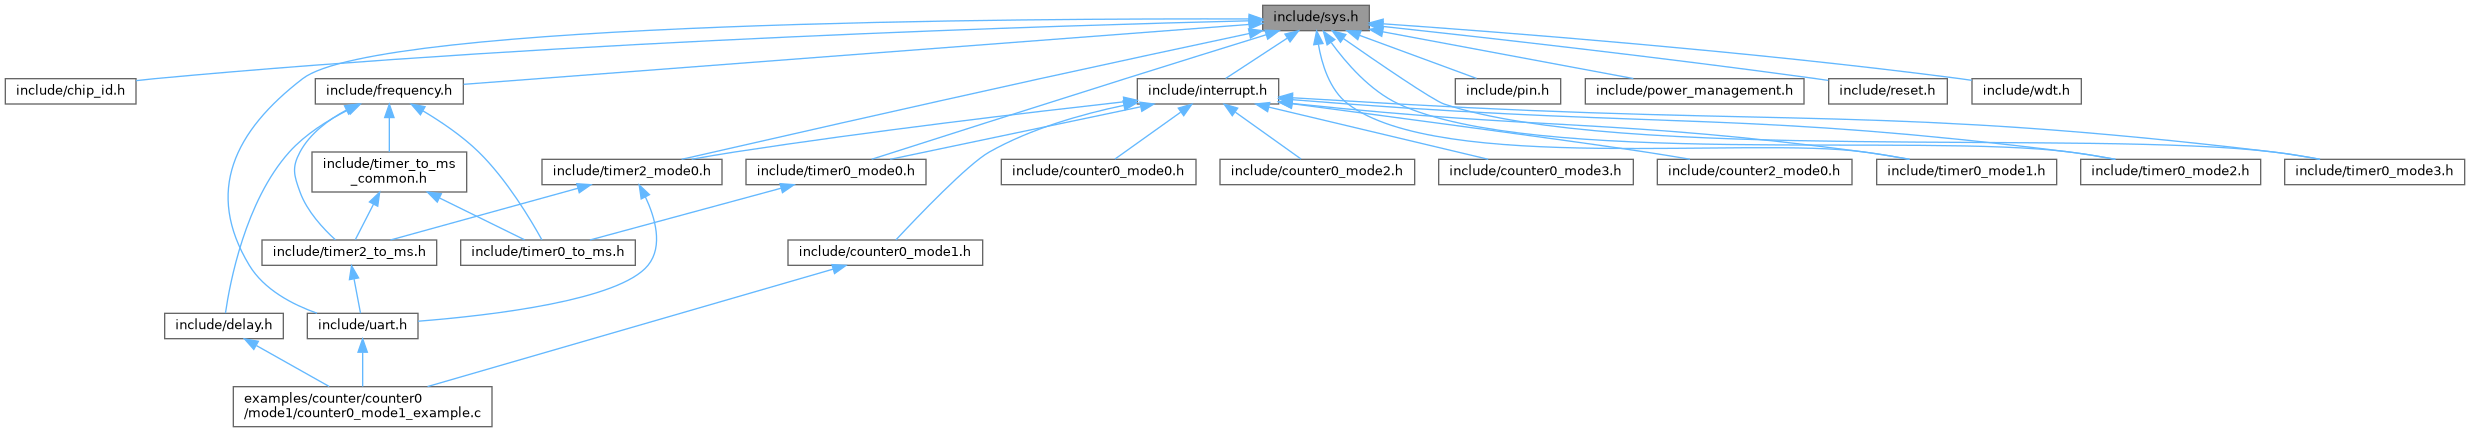
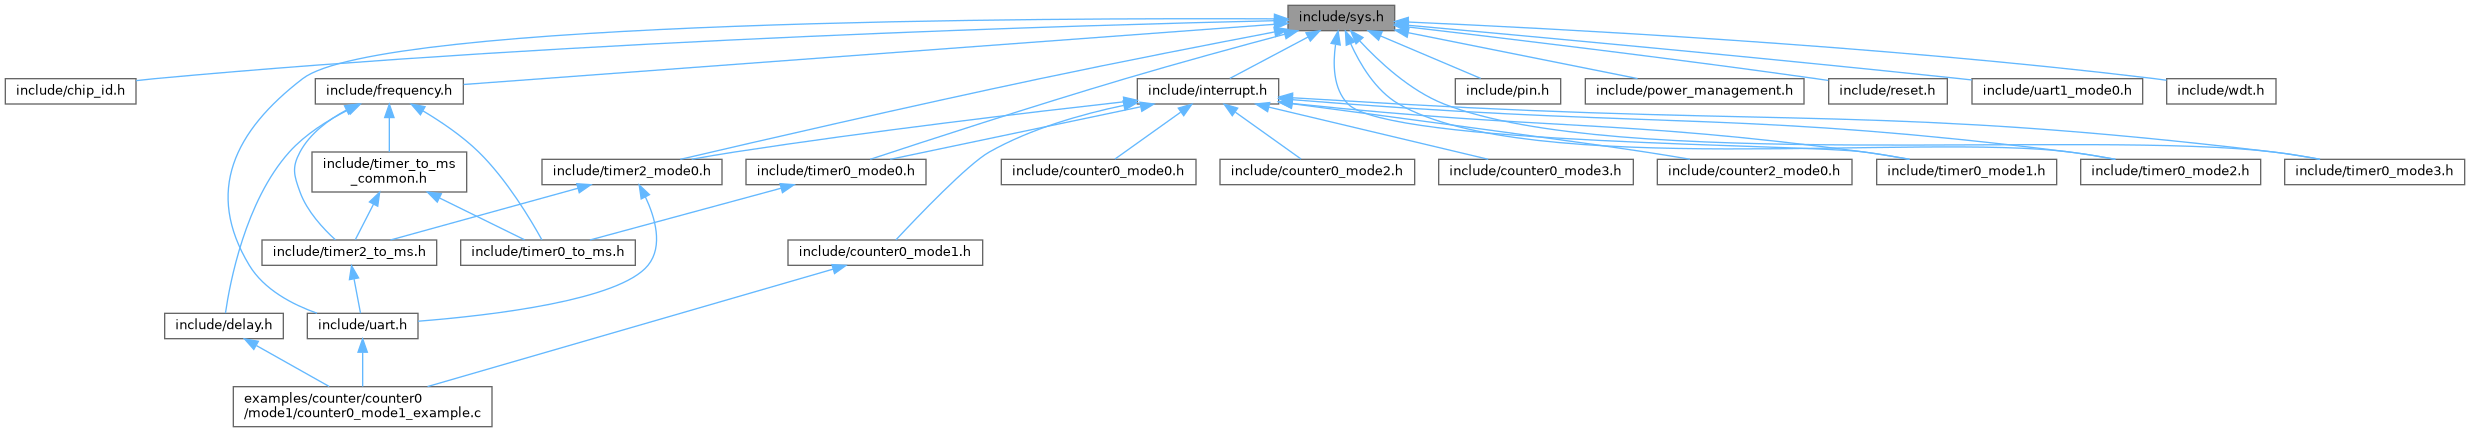
UART1 mode0 stub

diff --git a/docs/html/search/all_12.js b/docs/html/search/all_12.js
@@ -6,8 +6,10 @@ var searchData=
   ['uart1_5finit_3',['uart1_init',['../group__uart.html#gaaf582a05f613b72c7255c5cd838879fd',1,'uart.h']]],
   ['uart1_5fmode0_2eh_4',['uart1_mode0.h',['../uart1__mode0_8h.html',1,'']]],
   ['uart1_5fmode0_5finit_5',['uart1_mode0_init',['../group__uart1__mode0.html#gaf5419d2ce198432d12affc50bb9f567c',1,'uart1_mode0_init():&#160;uart1_mode0.c'],['../group__uart1__mode0.html#gaf5419d2ce198432d12affc50bb9f567c',1,'uart1_mode0_init():&#160;uart1_mode0.c']]],
-  ['uart1_5freceive_5fbyte_6',['uart1_receive_byte',['../group__uart.html#ga5f66ea2c05ce23684284f338d9067179',1,'uart1_receive_byte():&#160;uart.c'],['../group__uart.html#ga5f66ea2c05ce23684284f338d9067179',1,'uart1_receive_byte():&#160;uart.c'],['../group__uart.html#ga5f66ea2c05ce23684284f338d9067179',1,'uart1_receive_byte():&#160;uart.c'],['../group__uart.html#ga5f66ea2c05ce23684284f338d9067179',1,'uart1_receive_byte():&#160;uart.c'],['../group__uart.html#ga5f66ea2c05ce23684284f338d9067179',1,'uart1_receive_byte():&#160;uart.c'],['../group__uart.html#ga5f66ea2c05ce23684284f338d9067179',1,'uart1_receive_byte():&#160;uart.c'],['../group__uart.html#ga5f66ea2c05ce23684284f338d9067179',1,'uart1_receive_byte():&#160;uart.c'],['../group__uart.html#ga5f66ea2c05ce23684284f338d9067179',1,'uart1_receive_byte():&#160;uart.c'],['../group__uart.html#ga5f66ea2c05ce23684284f338d9067179',1,'uart1_receive_byte():&#160;uart.c'],['../group__uart.html#ga5f66ea2c05ce23684284f338d9067179',1,'uart1_receive_byte():&#160;uart.c'],['../group__uart.html#ga5f66ea2c05ce23684284f338d9067179',1,'uart1_receive_byte():&#160;uart.c'],['../group__uart.html#ga5f66ea2c05ce23684284f338d9067179',1,'uart1_receive_byte():&#160;uart.c'],['../group__uart.html#ga5f66ea2c05ce23684284f338d9067179',1,'uart1_receive_byte():&#160;uart.c'],['../group__uart.html#ga5f66ea2c05ce23684284f338d9067179',1,'uart1_receive_byte():&#160;uart.c'],['../group__uart.html#ga5f66ea2c05ce23684284f338d9067179',1,'uart1_receive_byte():&#160;uart.c'],['../group__uart.html#ga5f66ea2c05ce23684284f338d9067179',1,'uart1_receive_byte():&#160;uart.c'],['../group__uart.html#ga5f66ea2c05ce23684284f338d9067179',1,'uart1_receive_byte():&#160;uart.c']]],
-  ['uart1_5fsend_5fbyte_7',['uart1_send_byte',['../group__uart.html#gaee0e2768c65fa6dfe5e87991f729c6d0',1,'uart1_send_byte(uint8_t data):&#160;uart.c'],['../group__uart.html#gaee0e2768c65fa6dfe5e87991f729c6d0',1,'uart1_send_byte(uint8_t data):&#160;uart.c'],['../group__uart.html#gaee0e2768c65fa6dfe5e87991f729c6d0',1,'uart1_send_byte(uint8_t data):&#160;uart.c'],['../group__uart.html#gaee0e2768c65fa6dfe5e87991f729c6d0',1,'uart1_send_byte(uint8_t data):&#160;uart.c'],['../group__uart.html#gaee0e2768c65fa6dfe5e87991f729c6d0',1,'uart1_send_byte(uint8_t data):&#160;uart.c'],['../group__uart.html#gaee0e2768c65fa6dfe5e87991f729c6d0',1,'uart1_send_byte(uint8_t data):&#160;uart.c'],['../group__uart.html#gaee0e2768c65fa6dfe5e87991f729c6d0',1,'uart1_send_byte(uint8_t data):&#160;uart.c'],['../group__uart.html#gaee0e2768c65fa6dfe5e87991f729c6d0',1,'uart1_send_byte(uint8_t data):&#160;uart.c'],['../group__uart.html#gaee0e2768c65fa6dfe5e87991f729c6d0',1,'uart1_send_byte(uint8_t data):&#160;uart.c'],['../group__uart.html#gaee0e2768c65fa6dfe5e87991f729c6d0',1,'uart1_send_byte(uint8_t data):&#160;uart.c'],['../group__uart.html#gaee0e2768c65fa6dfe5e87991f729c6d0',1,'uart1_send_byte(uint8_t data):&#160;uart.c'],['../group__uart.html#gaee0e2768c65fa6dfe5e87991f729c6d0',1,'uart1_send_byte(uint8_t data):&#160;uart.c'],['../group__uart.html#gaee0e2768c65fa6dfe5e87991f729c6d0',1,'uart1_send_byte(uint8_t data):&#160;uart.c'],['../group__uart.html#gaee0e2768c65fa6dfe5e87991f729c6d0',1,'uart1_send_byte(uint8_t data):&#160;uart.c'],['../group__uart.html#gaee0e2768c65fa6dfe5e87991f729c6d0',1,'uart1_send_byte(uint8_t data):&#160;uart.c'],['../group__uart.html#gaee0e2768c65fa6dfe5e87991f729c6d0',1,'uart1_send_byte(uint8_t data):&#160;uart.c'],['../group__uart.html#gaee0e2768c65fa6dfe5e87991f729c6d0',1,'uart1_send_byte(uint8_t data):&#160;uart.c']]],
-  ['use_20it_8',['How to use it',['../index.html#autotoc_md1',1,'']]],
-  ['use_20stc15_20hal_20functions_9',['Use STC15 HAL functions',['../index.html#autotoc_md4',1,'']]]
+  ['uart1_5fmode0_5freceive_5fbyte_6',['uart1_mode0_receive_byte',['../group__uart1__mode0.html#ga90ab3ce7b678adb5a2d1e71c64f240f2',1,'uart1_mode0_receive_byte(uint8_t *byte):&#160;uart1_mode0.c'],['../group__uart1__mode0.html#ga90ab3ce7b678adb5a2d1e71c64f240f2',1,'uart1_mode0_receive_byte(uint8_t *byte):&#160;uart1_mode0.c']]],
+  ['uart1_5fmode0_5fsend_5fbyte_7',['uart1_mode0_send_byte',['../group__uart1__mode0.html#ga337ab921b8215fd076d12728c7b0454b',1,'uart1_mode0_send_byte(uint8_t byte):&#160;uart1_mode0.c'],['../group__uart1__mode0.html#ga337ab921b8215fd076d12728c7b0454b',1,'uart1_mode0_send_byte(uint8_t byte):&#160;uart1_mode0.c']]],
+  ['uart1_5freceive_5fbyte_8',['uart1_receive_byte',['../group__uart.html#ga5f66ea2c05ce23684284f338d9067179',1,'uart1_receive_byte():&#160;uart.c'],['../group__uart.html#ga5f66ea2c05ce23684284f338d9067179',1,'uart1_receive_byte():&#160;uart.c'],['../group__uart.html#ga5f66ea2c05ce23684284f338d9067179',1,'uart1_receive_byte():&#160;uart.c'],['../group__uart.html#ga5f66ea2c05ce23684284f338d9067179',1,'uart1_receive_byte():&#160;uart.c'],['../group__uart.html#ga5f66ea2c05ce23684284f338d9067179',1,'uart1_receive_byte():&#160;uart.c'],['../group__uart.html#ga5f66ea2c05ce23684284f338d9067179',1,'uart1_receive_byte():&#160;uart.c'],['../group__uart.html#ga5f66ea2c05ce23684284f338d9067179',1,'uart1_receive_byte():&#160;uart.c'],['../group__uart.html#ga5f66ea2c05ce23684284f338d9067179',1,'uart1_receive_byte():&#160;uart.c'],['../group__uart.html#ga5f66ea2c05ce23684284f338d9067179',1,'uart1_receive_byte():&#160;uart.c'],['../group__uart.html#ga5f66ea2c05ce23684284f338d9067179',1,'uart1_receive_byte():&#160;uart.c'],['../group__uart.html#ga5f66ea2c05ce23684284f338d9067179',1,'uart1_receive_byte():&#160;uart.c'],['../group__uart.html#ga5f66ea2c05ce23684284f338d9067179',1,'uart1_receive_byte():&#160;uart.c'],['../group__uart.html#ga5f66ea2c05ce23684284f338d9067179',1,'uart1_receive_byte():&#160;uart.c'],['../group__uart.html#ga5f66ea2c05ce23684284f338d9067179',1,'uart1_receive_byte():&#160;uart.c'],['../group__uart.html#ga5f66ea2c05ce23684284f338d9067179',1,'uart1_receive_byte():&#160;uart.c'],['../group__uart.html#ga5f66ea2c05ce23684284f338d9067179',1,'uart1_receive_byte():&#160;uart.c'],['../group__uart.html#ga5f66ea2c05ce23684284f338d9067179',1,'uart1_receive_byte():&#160;uart.c']]],
+  ['uart1_5fsend_5fbyte_9',['uart1_send_byte',['../group__uart.html#gaee0e2768c65fa6dfe5e87991f729c6d0',1,'uart1_send_byte(uint8_t data):&#160;uart.c'],['../group__uart.html#gaee0e2768c65fa6dfe5e87991f729c6d0',1,'uart1_send_byte(uint8_t data):&#160;uart.c'],['../group__uart.html#gaee0e2768c65fa6dfe5e87991f729c6d0',1,'uart1_send_byte(uint8_t data):&#160;uart.c'],['../group__uart.html#gaee0e2768c65fa6dfe5e87991f729c6d0',1,'uart1_send_byte(uint8_t data):&#160;uart.c'],['../group__uart.html#gaee0e2768c65fa6dfe5e87991f729c6d0',1,'uart1_send_byte(uint8_t data):&#160;uart.c'],['../group__uart.html#gaee0e2768c65fa6dfe5e87991f729c6d0',1,'uart1_send_byte(uint8_t data):&#160;uart.c'],['../group__uart.html#gaee0e2768c65fa6dfe5e87991f729c6d0',1,'uart1_send_byte(uint8_t data):&#160;uart.c'],['../group__uart.html#gaee0e2768c65fa6dfe5e87991f729c6d0',1,'uart1_send_byte(uint8_t data):&#160;uart.c'],['../group__uart.html#gaee0e2768c65fa6dfe5e87991f729c6d0',1,'uart1_send_byte(uint8_t data):&#160;uart.c'],['../group__uart.html#gaee0e2768c65fa6dfe5e87991f729c6d0',1,'uart1_send_byte(uint8_t data):&#160;uart.c'],['../group__uart.html#gaee0e2768c65fa6dfe5e87991f729c6d0',1,'uart1_send_byte(uint8_t data):&#160;uart.c'],['../group__uart.html#gaee0e2768c65fa6dfe5e87991f729c6d0',1,'uart1_send_byte(uint8_t data):&#160;uart.c'],['../group__uart.html#gaee0e2768c65fa6dfe5e87991f729c6d0',1,'uart1_send_byte(uint8_t data):&#160;uart.c'],['../group__uart.html#gaee0e2768c65fa6dfe5e87991f729c6d0',1,'uart1_send_byte(uint8_t data):&#160;uart.c'],['../group__uart.html#gaee0e2768c65fa6dfe5e87991f729c6d0',1,'uart1_send_byte(uint8_t data):&#160;uart.c'],['../group__uart.html#gaee0e2768c65fa6dfe5e87991f729c6d0',1,'uart1_send_byte(uint8_t data):&#160;uart.c'],['../group__uart.html#gaee0e2768c65fa6dfe5e87991f729c6d0',1,'uart1_send_byte(uint8_t data):&#160;uart.c']]],
+  ['use_20it_10',['How to use it',['../index.html#autotoc_md1',1,'']]],
+  ['use_20stc15_20hal_20functions_11',['Use STC15 HAL functions',['../index.html#autotoc_md4',1,'']]]
 ];

diff --git a/docs/html/search/functions_5.js b/docs/html/search/functions_5.js
@@ -1,6 +1,8 @@
 var searchData=
 [
   ['uart1_5fmode0_5finit_0',['uart1_mode0_init',['../group__uart1__mode0.html#gaf5419d2ce198432d12affc50bb9f567c',1,'uart1_mode0_init():&#160;uart1_mode0.c'],['../group__uart1__mode0.html#gaf5419d2ce198432d12affc50bb9f567c',1,'uart1_mode0_init():&#160;uart1_mode0.c']]],
-  ['uart1_5freceive_5fbyte_1',['uart1_receive_byte',['../group__uart.html#ga5f66ea2c05ce23684284f338d9067179',1,'uart1_receive_byte():&#160;uart.c'],['../group__uart.html#ga5f66ea2c05ce23684284f338d9067179',1,'uart1_receive_byte():&#160;uart.c'],['../group__uart.html#ga5f66ea2c05ce23684284f338d9067179',1,'uart1_receive_byte():&#160;uart.c'],['../group__uart.html#ga5f66ea2c05ce23684284f338d9067179',1,'uart1_receive_byte():&#160;uart.c'],['../group__uart.html#ga5f66ea2c05ce23684284f338d9067179',1,'uart1_receive_byte():&#160;uart.c'],['../group__uart.html#ga5f66ea2c05ce23684284f338d9067179',1,'uart1_receive_byte():&#160;uart.c'],['../group__uart.html#ga5f66ea2c05ce23684284f338d9067179',1,'uart1_receive_byte():&#160;uart.c'],['../group__uart.html#ga5f66ea2c05ce23684284f338d9067179',1,'uart1_receive_byte():&#160;uart.c'],['../group__uart.html#ga5f66ea2c05ce23684284f338d9067179',1,'uart1_receive_byte():&#160;uart.c'],['../group__uart.html#ga5f66ea2c05ce23684284f338d9067179',1,'uart1_receive_byte():&#160;uart.c'],['../group__uart.html#ga5f66ea2c05ce23684284f338d9067179',1,'uart1_receive_byte():&#160;uart.c'],['../group__uart.html#ga5f66ea2c05ce23684284f338d9067179',1,'uart1_receive_byte():&#160;uart.c'],['../group__uart.html#ga5f66ea2c05ce23684284f338d9067179',1,'uart1_receive_byte():&#160;uart.c'],['../group__uart.html#ga5f66ea2c05ce23684284f338d9067179',1,'uart1_receive_byte():&#160;uart.c'],['../group__uart.html#ga5f66ea2c05ce23684284f338d9067179',1,'uart1_receive_byte():&#160;uart.c'],['../group__uart.html#ga5f66ea2c05ce23684284f338d9067179',1,'uart1_receive_byte():&#160;uart.c'],['../group__uart.html#ga5f66ea2c05ce23684284f338d9067179',1,'uart1_receive_byte():&#160;uart.c']]],
-  ['uart1_5fsend_5fbyte_2',['uart1_send_byte',['../group__uart.html#gaee0e2768c65fa6dfe5e87991f729c6d0',1,'uart1_send_byte(uint8_t data):&#160;uart.c'],['../group__uart.html#gaee0e2768c65fa6dfe5e87991f729c6d0',1,'uart1_send_byte(uint8_t data):&#160;uart.c'],['../group__uart.html#gaee0e2768c65fa6dfe5e87991f729c6d0',1,'uart1_send_byte(uint8_t data):&#160;uart.c'],['../group__uart.html#gaee0e2768c65fa6dfe5e87991f729c6d0',1,'uart1_send_byte(uint8_t data):&#160;uart.c'],['../group__uart.html#gaee0e2768c65fa6dfe5e87991f729c6d0',1,'uart1_send_byte(uint8_t data):&#160;uart.c'],['../group__uart.html#gaee0e2768c65fa6dfe5e87991f729c6d0',1,'uart1_send_byte(uint8_t data):&#160;uart.c'],['../group__uart.html#gaee0e2768c65fa6dfe5e87991f729c6d0',1,'uart1_send_byte(uint8_t data):&#160;uart.c'],['../group__uart.html#gaee0e2768c65fa6dfe5e87991f729c6d0',1,'uart1_send_byte(uint8_t data):&#160;uart.c'],['../group__uart.html#gaee0e2768c65fa6dfe5e87991f729c6d0',1,'uart1_send_byte(uint8_t data):&#160;uart.c'],['../group__uart.html#gaee0e2768c65fa6dfe5e87991f729c6d0',1,'uart1_send_byte(uint8_t data):&#160;uart.c'],['../group__uart.html#gaee0e2768c65fa6dfe5e87991f729c6d0',1,'uart1_send_byte(uint8_t data):&#160;uart.c'],['../group__uart.html#gaee0e2768c65fa6dfe5e87991f729c6d0',1,'uart1_send_byte(uint8_t data):&#160;uart.c'],['../group__uart.html#gaee0e2768c65fa6dfe5e87991f729c6d0',1,'uart1_send_byte(uint8_t data):&#160;uart.c'],['../group__uart.html#gaee0e2768c65fa6dfe5e87991f729c6d0',1,'uart1_send_byte(uint8_t data):&#160;uart.c'],['../group__uart.html#gaee0e2768c65fa6dfe5e87991f729c6d0',1,'uart1_send_byte(uint8_t data):&#160;uart.c'],['../group__uart.html#gaee0e2768c65fa6dfe5e87991f729c6d0',1,'uart1_send_byte(uint8_t data):&#160;uart.c'],['../group__uart.html#gaee0e2768c65fa6dfe5e87991f729c6d0',1,'uart1_send_byte(uint8_t data):&#160;uart.c']]]
+  ['uart1_5fmode0_5freceive_5fbyte_1',['uart1_mode0_receive_byte',['../group__uart1__mode0.html#ga90ab3ce7b678adb5a2d1e71c64f240f2',1,'uart1_mode0_receive_byte(uint8_t *byte):&#160;uart1_mode0.c'],['../group__uart1__mode0.html#ga90ab3ce7b678adb5a2d1e71c64f240f2',1,'uart1_mode0_receive_byte(uint8_t *byte):&#160;uart1_mode0.c']]],
+  ['uart1_5fmode0_5fsend_5fbyte_2',['uart1_mode0_send_byte',['../group__uart1__mode0.html#ga337ab921b8215fd076d12728c7b0454b',1,'uart1_mode0_send_byte(uint8_t byte):&#160;uart1_mode0.c'],['../group__uart1__mode0.html#ga337ab921b8215fd076d12728c7b0454b',1,'uart1_mode0_send_byte(uint8_t byte):&#160;uart1_mode0.c']]],
+  ['uart1_5freceive_5fbyte_3',['uart1_receive_byte',['../group__uart.html#ga5f66ea2c05ce23684284f338d9067179',1,'uart1_receive_byte():&#160;uart.c'],['../group__uart.html#ga5f66ea2c05ce23684284f338d9067179',1,'uart1_receive_byte():&#160;uart.c'],['../group__uart.html#ga5f66ea2c05ce23684284f338d9067179',1,'uart1_receive_byte():&#160;uart.c'],['../group__uart.html#ga5f66ea2c05ce23684284f338d9067179',1,'uart1_receive_byte():&#160;uart.c'],['../group__uart.html#ga5f66ea2c05ce23684284f338d9067179',1,'uart1_receive_byte():&#160;uart.c'],['../group__uart.html#ga5f66ea2c05ce23684284f338d9067179',1,'uart1_receive_byte():&#160;uart.c'],['../group__uart.html#ga5f66ea2c05ce23684284f338d9067179',1,'uart1_receive_byte():&#160;uart.c'],['../group__uart.html#ga5f66ea2c05ce23684284f338d9067179',1,'uart1_receive_byte():&#160;uart.c'],['../group__uart.html#ga5f66ea2c05ce23684284f338d9067179',1,'uart1_receive_byte():&#160;uart.c'],['../group__uart.html#ga5f66ea2c05ce23684284f338d9067179',1,'uart1_receive_byte():&#160;uart.c'],['../group__uart.html#ga5f66ea2c05ce23684284f338d9067179',1,'uart1_receive_byte():&#160;uart.c'],['../group__uart.html#ga5f66ea2c05ce23684284f338d9067179',1,'uart1_receive_byte():&#160;uart.c'],['../group__uart.html#ga5f66ea2c05ce23684284f338d9067179',1,'uart1_receive_byte():&#160;uart.c'],['../group__uart.html#ga5f66ea2c05ce23684284f338d9067179',1,'uart1_receive_byte():&#160;uart.c'],['../group__uart.html#ga5f66ea2c05ce23684284f338d9067179',1,'uart1_receive_byte():&#160;uart.c'],['../group__uart.html#ga5f66ea2c05ce23684284f338d9067179',1,'uart1_receive_byte():&#160;uart.c'],['../group__uart.html#ga5f66ea2c05ce23684284f338d9067179',1,'uart1_receive_byte():&#160;uart.c']]],
+  ['uart1_5fsend_5fbyte_4',['uart1_send_byte',['../group__uart.html#gaee0e2768c65fa6dfe5e87991f729c6d0',1,'uart1_send_byte(uint8_t data):&#160;uart.c'],['../group__uart.html#gaee0e2768c65fa6dfe5e87991f729c6d0',1,'uart1_send_byte(uint8_t data):&#160;uart.c'],['../group__uart.html#gaee0e2768c65fa6dfe5e87991f729c6d0',1,'uart1_send_byte(uint8_t data):&#160;uart.c'],['../group__uart.html#gaee0e2768c65fa6dfe5e87991f729c6d0',1,'uart1_send_byte(uint8_t data):&#160;uart.c'],['../group__uart.html#gaee0e2768c65fa6dfe5e87991f729c6d0',1,'uart1_send_byte(uint8_t data):&#160;uart.c'],['../group__uart.html#gaee0e2768c65fa6dfe5e87991f729c6d0',1,'uart1_send_byte(uint8_t data):&#160;uart.c'],['../group__uart.html#gaee0e2768c65fa6dfe5e87991f729c6d0',1,'uart1_send_byte(uint8_t data):&#160;uart.c'],['../group__uart.html#gaee0e2768c65fa6dfe5e87991f729c6d0',1,'uart1_send_byte(uint8_t data):&#160;uart.c'],['../group__uart.html#gaee0e2768c65fa6dfe5e87991f729c6d0',1,'uart1_send_byte(uint8_t data):&#160;uart.c'],['../group__uart.html#gaee0e2768c65fa6dfe5e87991f729c6d0',1,'uart1_send_byte(uint8_t data):&#160;uart.c'],['../group__uart.html#gaee0e2768c65fa6dfe5e87991f729c6d0',1,'uart1_send_byte(uint8_t data):&#160;uart.c'],['../group__uart.html#gaee0e2768c65fa6dfe5e87991f729c6d0',1,'uart1_send_byte(uint8_t data):&#160;uart.c'],['../group__uart.html#gaee0e2768c65fa6dfe5e87991f729c6d0',1,'uart1_send_byte(uint8_t data):&#160;uart.c'],['../group__uart.html#gaee0e2768c65fa6dfe5e87991f729c6d0',1,'uart1_send_byte(uint8_t data):&#160;uart.c'],['../group__uart.html#gaee0e2768c65fa6dfe5e87991f729c6d0',1,'uart1_send_byte(uint8_t data):&#160;uart.c'],['../group__uart.html#gaee0e2768c65fa6dfe5e87991f729c6d0',1,'uart1_send_byte(uint8_t data):&#160;uart.c'],['../group__uart.html#gaee0e2768c65fa6dfe5e87991f729c6d0',1,'uart1_send_byte(uint8_t data):&#160;uart.c']]]
 ];

diff --git a/docs/html/sys_8h.html b/docs/html/sys_8h.html
@@ -96,33 +96,35 @@ This graph shows which files directly or indirectly include this file:</div>
 <div class="dyncontent">
 <div class="center"><img src="sys_8h__dep__incl.png" border="0" usemap="#ainclude_2sys_8hdep" alt=""/></div>
 <map name="ainclude_2sys_8hdep" id="ainclude_2sys_8hdep">
-<area shape="rect" title=" " alt="" coords="1263,5,1369,31"/>
+<area shape="rect" title=" " alt="" coords="1288,5,1395,31"/>
 <area shape="rect" href="chip__id_8h.html" title=" " alt="" coords="5,79,136,104"/>
-<area shape="poly" title=" " alt="" coords="1249,23,791,40,476,57,155,81,136,83,136,78,154,76,475,51,790,34,1249,18"/>
+<area shape="poly" title=" " alt="" coords="1275,23,806,39,484,56,155,81,136,83,136,78,154,76,484,51,806,34,1274,18"/>
 <area shape="rect" href="frequency_8h.html" title=" " alt="" coords="315,79,463,104"/>
-<area shape="poly" title=" " alt="" coords="1249,27,464,87,463,82,1249,22"/>
+<area shape="poly" title=" " alt="" coords="1275,27,464,87,463,82,1274,22"/>
 <area shape="rect" href="uart_8h.html" title=" " alt="" coords="307,313,418,339"/>
-<area shape="poly" title=" " alt="" coords="1249,22,1021,23,724,30,579,37,452,48,357,62,324,71,304,81,261,121,246,143,236,165,231,188,232,212,238,237,252,264,265,280,281,293,318,311,316,316,278,297,261,284,247,267,233,239,227,213,226,187,231,163,242,140,257,118,301,76,322,66,355,57,452,42,578,32,723,24,1021,17,1249,16"/>
+<area shape="poly" title=" " alt="" coords="1274,22,1041,22,736,29,587,36,457,47,358,62,325,71,304,81,261,121,246,143,236,165,231,188,232,212,238,237,252,264,265,280,281,293,318,311,316,316,278,297,261,284,247,267,233,239,227,213,226,187,231,163,242,140,257,118,301,76,323,66,357,57,456,42,586,31,735,24,1041,17,1274,16"/>
 <area shape="rect" href="interrupt_8h.html" title=" " alt="" coords="1137,79,1279,104"/>
-<area shape="poly" title=" " alt="" coords="1289,40,1227,81,1224,76,1286,36"/>
+<area shape="poly" title=" " alt="" coords="1309,39,1231,81,1229,76,1307,35"/>
 <area shape="rect" href="timer0__mode0_8h.html" title=" " alt="" coords="746,159,926,185"/>
-<area shape="poly" title=" " alt="" coords="1267,37,1126,81,872,162,871,157,1125,76,1265,32"/>
+<area shape="poly" title=" " alt="" coords="1286,37,1126,81,871,162,869,157,1125,76,1284,32"/>
 <area shape="rect" href="timer0__mode1_8h.html" title=" " alt="" coords="1877,159,2057,185"/>
-<area shape="poly" title=" " alt="" coords="1321,43,1330,75,1338,90,1350,102,1369,113,1393,123,1452,136,1522,143,1598,146,1748,145,1813,146,1864,149,1910,157,1909,162,1864,155,1813,151,1748,150,1598,151,1521,148,1451,141,1391,128,1366,118,1346,106,1334,93,1325,77,1316,45"/>
+<area shape="poly" title=" " alt="" coords="1338,45,1338,75,1342,90,1350,102,1361,109,1380,115,1438,125,1600,138,1864,149,1910,157,1909,162,1864,155,1600,143,1437,130,1379,120,1359,114,1346,106,1337,92,1332,76,1333,45"/>
 <area shape="rect" href="timer0__mode2_8h.html" title=" " alt="" coords="2081,159,2261,185"/>
-<area shape="poly" title=" " alt="" coords="1333,41,1362,74,1380,89,1400,102,1461,121,1540,133,1631,139,1729,142,1921,143,2004,144,2070,149,2116,157,2115,162,2069,155,2003,150,1921,148,1729,147,1631,145,1540,138,1460,126,1398,106,1377,94,1358,78,1329,44"/>
+<area shape="poly" title=" " alt="" coords="1353,42,1371,75,1384,90,1400,102,1427,114,1459,124,1538,138,1629,144,1727,146,1920,144,2003,145,2070,149,2116,157,2115,162,2069,155,2003,150,1920,150,1727,152,1629,150,1537,143,1458,129,1425,119,1397,106,1381,94,1367,78,1348,45"/>
 <area shape="rect" href="timer0__mode3_8h.html" title=" " alt="" coords="2285,159,2465,185"/>
-<area shape="poly" title=" " alt="" coords="1345,36,1404,77,1445,102,1523,119,1622,130,1735,136,1856,139,2091,141,2192,143,2274,149,2320,157,2319,162,2273,155,2192,149,2091,146,1856,144,1735,142,1621,136,1522,125,1443,106,1401,81,1342,41"/>
+<area shape="poly" title=" " alt="" coords="1362,39,1398,73,1420,89,1445,102,1522,122,1621,134,1734,140,1854,142,2091,142,2192,144,2274,149,2320,157,2319,162,2273,155,2192,149,2091,147,1854,148,1734,146,1620,139,1521,127,1443,106,1418,94,1394,77,1358,43"/>
 <area shape="rect" href="timer2__mode0_8h.html" title=" " alt="" coords="542,159,722,185"/>
-<area shape="poly" title=" " alt="" coords="1250,36,1041,81,682,162,681,157,1039,76,1249,31"/>
+<area shape="poly" title=" " alt="" coords="1275,35,1041,81,681,162,680,157,1039,76,1274,29"/>
 <area shape="rect" href="pin_8h.html" title=" " alt="" coords="1455,79,1561,104"/>
-<area shape="poly" title=" " alt="" coords="1361,33,1478,76,1476,81,1359,38"/>
+<area shape="poly" title=" " alt="" coords="1382,34,1482,76,1480,81,1380,38"/>
 <area shape="rect" href="power__management_8h.html" title=" " alt="" coords="1585,79,1804,104"/>
-<area shape="poly" title=" " alt="" coords="1383,29,1634,76,1633,81,1382,34"/>
+<area shape="poly" title=" " alt="" coords="1409,30,1638,76,1637,81,1408,35"/>
 <area shape="rect" href="reset_8h.html" title=" " alt="" coords="1829,79,1947,104"/>
-<area shape="poly" title=" " alt="" coords="1383,24,1578,46,1816,76,1829,78,1828,83,1816,81,1577,51,1383,29"/>
-<area shape="rect" href="wdt_8h.html" title=" " alt="" coords="1972,79,2081,104"/>
-<area shape="poly" title=" " alt="" coords="1383,21,1637,41,1960,76,1972,78,1971,83,1960,81,1637,47,1383,26"/>
+<area shape="poly" title=" " alt="" coords="1409,24,1816,76,1829,78,1828,83,1816,81,1408,30"/>
+<area shape="rect" href="uart1__mode0_8h.html" title=" " alt="" coords="1972,79,2143,104"/>
+<area shape="poly" title=" " alt="" coords="1409,23,1960,76,1972,77,1972,83,1960,81,1408,28"/>
+<area shape="rect" href="wdt_8h.html" title=" " alt="" coords="2167,79,2276,104"/>
+<area shape="poly" title=" " alt="" coords="1409,19,1731,37,1942,54,2155,76,2167,78,2166,83,2154,81,1941,59,1730,43,1408,25"/>
 <area shape="rect" href="delay_8h.html" title=" " alt="" coords="165,313,283,339"/>
 <area shape="poly" title=" " alt="" coords="349,112,319,130,291,154,264,195,245,241,234,283,228,314,223,313,228,282,240,239,259,192,287,150,316,126,346,108"/>
 <area shape="rect" href="timer0__to__ms_8h.html" title=" " alt="" coords="461,240,635,265"/>

diff --git a/docs/html/group__uart1__mode0.html b/docs/html/group__uart1__mode0.html
@@ -79,6 +79,16 @@ $(function() {
 <tr class="memitem:gaf5419d2ce198432d12affc50bb9f567c" id="r_gaf5419d2ce198432d12affc50bb9f567c"><td class="memItemLeft" align="right" valign="top">void&#160;</td><td class="memItemRight" valign="bottom"><a class="el" href="group__uart1__mode0.html#gaf5419d2ce198432d12affc50bb9f567c">uart1_mode0_init</a> ()</td></tr>
 <tr class="memdesc:gaf5419d2ce198432d12affc50bb9f567c"><td class="mdescLeft">&#160;</td><td class="mdescRight">Initializes UART1 in Mode 0.  <br /></td></tr>
 <tr class="separator:gaf5419d2ce198432d12affc50bb9f567c"><td class="memSeparator" colspan="2">&#160;</td></tr>
+</table><table class="memberdecls">
+<tr class="heading"><td colspan="2"><h2 class="groupheader">send and receive</h2></td></tr>
+<tr><td class="ititle" colspan="2"><p>UART1 send and receive byte functions </p>
+</td></tr>
+<tr class="memitem:ga337ab921b8215fd076d12728c7b0454b" id="r_ga337ab921b8215fd076d12728c7b0454b"><td class="memItemLeft" align="right" valign="top">void&#160;</td><td class="memItemRight" valign="bottom"><a class="el" href="group__uart1__mode0.html#ga337ab921b8215fd076d12728c7b0454b">uart1_mode0_send_byte</a> (uint8_t byte)</td></tr>
+<tr class="memdesc:ga337ab921b8215fd076d12728c7b0454b"><td class="mdescLeft">&#160;</td><td class="mdescRight">Sends a single byte over UART1 in Mode 0.  <br /></td></tr>
+<tr class="separator:ga337ab921b8215fd076d12728c7b0454b"><td class="memSeparator" colspan="2">&#160;</td></tr>
+<tr class="memitem:ga90ab3ce7b678adb5a2d1e71c64f240f2" id="r_ga90ab3ce7b678adb5a2d1e71c64f240f2"><td class="memItemLeft" align="right" valign="top">void&#160;</td><td class="memItemRight" valign="bottom"><a class="el" href="group__uart1__mode0.html#ga90ab3ce7b678adb5a2d1e71c64f240f2">uart1_mode0_receive_byte</a> (uint8_t *byte)</td></tr>
+<tr class="memdesc:ga90ab3ce7b678adb5a2d1e71c64f240f2"><td class="mdescLeft">&#160;</td><td class="mdescRight">Receives a single byte from UART1.  <br /></td></tr>
+<tr class="separator:ga90ab3ce7b678adb5a2d1e71c64f240f2"><td class="memSeparator" colspan="2">&#160;</td></tr>
 </table>
 <a name="details" id="details"></a><h2 class="groupheader">Detailed Description</h2>
 <p>Functions and data structures for UART1 communication in Mode 0.</p>
@@ -105,6 +115,70 @@ $(function() {
 <dl class="section note"><dt>Note</dt><dd>Assumes system clock is already configured. </dd>
 <dd>
 Modifies UART1 control and status registers. </dd></dl>
+
+</div>
+</div>
+<a id="ga90ab3ce7b678adb5a2d1e71c64f240f2" name="ga90ab3ce7b678adb5a2d1e71c64f240f2"></a>
+<h2 class="memtitle"><span class="permalink"><a href="#ga90ab3ce7b678adb5a2d1e71c64f240f2">&#9670;&#160;</a></span>uart1_mode0_receive_byte()</h2>
+
+<div class="memitem">
+<div class="memproto">
+      <table class="memname">
+        <tr>
+          <td class="memname">void uart1_mode0_receive_byte </td>
+          <td>(</td>
+          <td class="paramtype">uint8_t *&#160;</td>
+          <td class="paramname"><em>byte</em></td><td>)</td>
+          <td></td>
+        </tr>
+      </table>
+</div><div class="memdoc">
+
+<p>Receives a single byte from UART1. </p>
+<p>Waits until a byte is received via UART1 and stores it in the provided memory location.</p>
+<dl class="params"><dt>Parameters</dt><dd>
+  <table class="params">
+    <tr><td class="paramdir">[out]</td><td class="paramname">byte</td><td>Pointer to a uint8_t where the received data will be stored.</td></tr>
+  </table>
+  </dd>
+</dl>
+<dl class="section note"><dt>Note</dt><dd>This function blocks until a byte is received. </dd>
+<dd>
+Requires UART1 to be initialized with uart_mode0_init() prior to use. </dd>
+<dd>
+Assumes UART1 is configured with 8 data bits, no parity, 1 stop bit. </dd></dl>
+
+</div>
+</div>
+<a id="ga337ab921b8215fd076d12728c7b0454b" name="ga337ab921b8215fd076d12728c7b0454b"></a>
+<h2 class="memtitle"><span class="permalink"><a href="#ga337ab921b8215fd076d12728c7b0454b">&#9670;&#160;</a></span>uart1_mode0_send_byte()</h2>
+
+<div class="memitem">
+<div class="memproto">
+      <table class="memname">
+        <tr>
+          <td class="memname">void uart1_mode0_send_byte </td>
+          <td>(</td>
+          <td class="paramtype">uint8_t&#160;</td>
+          <td class="paramname"><em>byte</em></td><td>)</td>
+          <td></td>
+        </tr>
+      </table>
+</div><div class="memdoc">
+
+<p>Sends a single byte over UART1 in Mode 0. </p>
+<p>Transmits the specified 8-bit data byte through UART1 configured in Mode 0. The function blocks until the byte is fully transmitted.</p>
+<dl class="params"><dt>Parameters</dt><dd>
+  <table class="params">
+    <tr><td class="paramname">byte</td><td>The 8-bit data value to be sent (0-255).</td></tr>
+  </table>
+  </dd>
+</dl>
+<dl class="section note"><dt>Note</dt><dd>Requires UART1 to be previously initialized with uart_mode0_init(). </dd>
+<dd>
+Uses polling (blocking) method for transmission. </dd>
+<dd>
+Assumes UART1 is configured with 8 data bits, no parity, 1 stop bit. </dd></dl>
 
 </div>
 </div>

diff --git a/docs/html/uart1__mode0_8h_source.html b/docs/html/uart1__mode0_8h_source.html
@@ -83,12 +83,25 @@ $(document).ready(function() { init_codefold(0); });
 <div class="contents">
 <a href="uart1__mode0_8h.html">Go to the documentation of this file.</a><div class="fragment"><div class="line"><a id="l00001" name="l00001"></a><span class="lineno">    1</span><span class="preprocessor">#ifndef STC15_UART1MODE0H</span></div>
 <div class="line"><a id="l00002" name="l00002"></a><span class="lineno">    2</span><span class="preprocessor">#define STC15_UART1MODE0H</span></div>
-<div class="line"><a id="l00018" name="l00018"></a><span class="lineno">   18</span> </div>
-<div class="line"><a id="l00029" name="l00029"></a><span class="lineno">   29</span><span class="keywordtype">void</span> <a class="code hl_function" href="group__uart1__mode0.html#gaf5419d2ce198432d12affc50bb9f567c">uart1_mode0_init</a>();</div>
-<div class="line"><a id="l00030" name="l00030"></a><span class="lineno">   30</span> </div>
-<div class="line"><a id="l00032" name="l00032"></a><span class="lineno">   32</span> </div>
-<div class="line"><a id="l00033" name="l00033"></a><span class="lineno">   33</span><span class="preprocessor">#endif</span></div>
+<div class="line"><a id="l00003" name="l00003"></a><span class="lineno">    3</span> </div>
+<div class="line"><a id="l00004" name="l00004"></a><span class="lineno">    4</span><span class="preprocessor">#include &lt;stdint.h&gt;</span></div>
+<div class="line"><a id="l00005" name="l00005"></a><span class="lineno">    5</span> </div>
+<div class="line"><a id="l00006" name="l00006"></a><span class="lineno">    6</span><span class="preprocessor">#include &lt;<a class="code" href="sys_8h.html">sys.h</a>&gt;</span></div>
+<div class="line"><a id="l00007" name="l00007"></a><span class="lineno">    7</span> </div>
+<div class="line"><a id="l00023" name="l00023"></a><span class="lineno">   23</span> </div>
+<div class="line"><a id="l00034" name="l00034"></a><span class="lineno">   34</span><span class="keywordtype">void</span> <a class="code hl_function" href="group__uart1__mode0.html#gaf5419d2ce198432d12affc50bb9f567c">uart1_mode0_init</a>();</div>
+<div class="line"><a id="l00036" name="l00036"></a><span class="lineno">   36</span> </div>
+<div class="line"><a id="l00041" name="l00041"></a><span class="lineno">   41</span> </div>
+<div class="line"><a id="l00056" name="l00056"></a><span class="lineno">   56</span><span class="keywordtype">void</span> <a class="code hl_function" href="group__uart1__mode0.html#ga337ab921b8215fd076d12728c7b0454b">uart1_mode0_send_byte</a>(uint8_t <span class="keywordtype">byte</span>);</div>
+<div class="line"><a id="l00057" name="l00057"></a><span class="lineno">   57</span> </div>
+<div class="line"><a id="l00071" name="l00071"></a><span class="lineno">   71</span><span class="keywordtype">void</span> <a class="code hl_function" href="group__uart1__mode0.html#ga90ab3ce7b678adb5a2d1e71c64f240f2">uart1_mode0_receive_byte</a>(uint8_t *<span class="keywordtype">byte</span>);</div>
+<div class="line"><a id="l00072" name="l00072"></a><span class="lineno">   72</span> </div>
+<div class="line"><a id="l00074" name="l00074"></a><span class="lineno">   74</span> </div>
+<div class="line"><a id="l00075" name="l00075"></a><span class="lineno">   75</span><span class="preprocessor">#endif</span></div>
+<div class="ttc" id="agroup__uart1__mode0_html_ga337ab921b8215fd076d12728c7b0454b"><div class="ttname"><a href="group__uart1__mode0.html#ga337ab921b8215fd076d12728c7b0454b">uart1_mode0_send_byte</a></div><div class="ttdeci">void uart1_mode0_send_byte(uint8_t byte)</div><div class="ttdoc">Sends a single byte over UART1 in Mode 0.</div><div class="ttdef"><b>Definition</b> uart1_mode0.c:10</div></div>
+<div class="ttc" id="agroup__uart1__mode0_html_ga90ab3ce7b678adb5a2d1e71c64f240f2"><div class="ttname"><a href="group__uart1__mode0.html#ga90ab3ce7b678adb5a2d1e71c64f240f2">uart1_mode0_receive_byte</a></div><div class="ttdeci">void uart1_mode0_receive_byte(uint8_t *byte)</div><div class="ttdoc">Receives a single byte from UART1.</div><div class="ttdef"><b>Definition</b> uart1_mode0.c:18</div></div>
 <div class="ttc" id="agroup__uart1__mode0_html_gaf5419d2ce198432d12affc50bb9f567c"><div class="ttname"><a href="group__uart1__mode0.html#gaf5419d2ce198432d12affc50bb9f567c">uart1_mode0_init</a></div><div class="ttdeci">void uart1_mode0_init()</div><div class="ttdoc">Initializes UART1 in Mode 0.</div><div class="ttdef"><b>Definition</b> uart1_mode0.c:3</div></div>
+<div class="ttc" id="asys_8h_html"><div class="ttname"><a href="sys_8h.html">sys.h</a></div></div>
 </div><!-- fragment --></div><!-- contents -->
 <!-- start footer part -->
 <hr class="footer"/><address class="footer"><small>

diff --git a/docs/html/uart1__mode0_8h.html b/docs/html/uart1__mode0_8h.html
@@ -76,7 +76,25 @@ $(function() {
   <div class="headertitle"><div class="title">uart1_mode0.h File Reference</div></div>
 </div><!--header-->
 <div class="contents">
-
+<div class="textblock"><code>#include &lt;stdint.h&gt;</code><br />
+<code>#include &lt;<a class="el" href="sys_8h_source.html">sys.h</a>&gt;</code><br />
+</div><div class="textblock"><div class="dynheader">
+Include dependency graph for uart1_mode0.h:</div>
+<div class="dyncontent">
+<div class="center"><img src="uart1__mode0_8h__incl.png" border="0" usemap="#ainclude_2uart1__mode0_8h" alt=""/></div>
+<map name="ainclude_2uart1__mode0_8h" id="ainclude_2uart1__mode0_8h">
+<area shape="rect" title=" " alt="" coords="5,5,176,31"/>
+<area shape="rect" title=" " alt="" coords="11,79,82,104"/>
+<area shape="poly" title=" " alt="" coords="86,32,63,68,59,66,81,30"/>
+<area shape="rect" href="sys_8h.html" title=" " alt="" coords="107,79,163,104"/>
+<area shape="poly" title=" " alt="" coords="100,30,123,66,118,68,96,32"/>
+<area shape="rect" href="STC15Fxx_8h_source.html" title=" " alt="" coords="85,152,184,177"/>
+<area shape="poly" title=" " alt="" coords="137,104,137,138,132,138,132,104"/>
+<area shape="rect" title=" " alt="" coords="89,225,180,251"/>
+<area shape="poly" title=" " alt="" coords="137,178,137,212,132,212,132,178"/>
+</map>
+</div>
+</div>
 <p><a href="uart1__mode0_8h_source.html">Go to the source code of this file.</a></p>
 <table class="memberdecls">
 <tr class="heading"><td colspan="2"><h2 class="groupheader"><a id="func-members" name="func-members"></a>
@@ -87,6 +105,15 @@ Functions</h2></td></tr>
 <tr class="memitem:gaf5419d2ce198432d12affc50bb9f567c" id="r_gaf5419d2ce198432d12affc50bb9f567c"><td class="memItemLeft" align="right" valign="top">void&#160;</td><td class="memItemRight" valign="bottom"><a class="el" href="group__uart1__mode0.html#gaf5419d2ce198432d12affc50bb9f567c">uart1_mode0_init</a> ()</td></tr>
 <tr class="memdesc:gaf5419d2ce198432d12affc50bb9f567c"><td class="mdescLeft">&#160;</td><td class="mdescRight">Initializes UART1 in Mode 0.  <br /></td></tr>
 <tr class="separator:gaf5419d2ce198432d12affc50bb9f567c"><td class="memSeparator" colspan="2">&#160;</td></tr>
+<tr><td colspan="2"><div class="groupHeader">send and receive</div></td></tr>
+<tr><td colspan="2"><div class="groupText"><p>UART1 send and receive byte functions </p>
+</div></td></tr>
+<tr class="memitem:ga337ab921b8215fd076d12728c7b0454b" id="r_ga337ab921b8215fd076d12728c7b0454b"><td class="memItemLeft" align="right" valign="top">void&#160;</td><td class="memItemRight" valign="bottom"><a class="el" href="group__uart1__mode0.html#ga337ab921b8215fd076d12728c7b0454b">uart1_mode0_send_byte</a> (uint8_t byte)</td></tr>
+<tr class="memdesc:ga337ab921b8215fd076d12728c7b0454b"><td class="mdescLeft">&#160;</td><td class="mdescRight">Sends a single byte over UART1 in Mode 0.  <br /></td></tr>
+<tr class="separator:ga337ab921b8215fd076d12728c7b0454b"><td class="memSeparator" colspan="2">&#160;</td></tr>
+<tr class="memitem:ga90ab3ce7b678adb5a2d1e71c64f240f2" id="r_ga90ab3ce7b678adb5a2d1e71c64f240f2"><td class="memItemLeft" align="right" valign="top">void&#160;</td><td class="memItemRight" valign="bottom"><a class="el" href="group__uart1__mode0.html#ga90ab3ce7b678adb5a2d1e71c64f240f2">uart1_mode0_receive_byte</a> (uint8_t *byte)</td></tr>
+<tr class="memdesc:ga90ab3ce7b678adb5a2d1e71c64f240f2"><td class="mdescLeft">&#160;</td><td class="mdescRight">Receives a single byte from UART1.  <br /></td></tr>
+<tr class="separator:ga90ab3ce7b678adb5a2d1e71c64f240f2"><td class="memSeparator" colspan="2">&#160;</td></tr>
 </table>
 </div><!-- contents -->
 <!-- start footer part -->

diff --git a/docs/html/globals_func.html b/docs/html/globals_func.html
@@ -76,6 +76,8 @@ $(function() {
 <li>main()&#160;:&#160;<a class="el" href="counter0__mode1__example_8c.html#acdef7a1fd863a6d3770c1268cb06add3">counter0_mode1_example.c</a></li>
 <li>putchar()&#160;:&#160;<a class="el" href="group__uart.html#ga07036e93939040c563e862a6a31b65bc">uart.h</a></li>
 <li>uart1_mode0_init()&#160;:&#160;<a class="el" href="group__uart1__mode0.html#gaf5419d2ce198432d12affc50bb9f567c">uart1_mode0.h</a></li>
+<li>uart1_mode0_receive_byte()&#160;:&#160;<a class="el" href="group__uart1__mode0.html#ga90ab3ce7b678adb5a2d1e71c64f240f2">uart1_mode0.h</a></li>
+<li>uart1_mode0_send_byte()&#160;:&#160;<a class="el" href="group__uart1__mode0.html#ga337ab921b8215fd076d12728c7b0454b">uart1_mode0.h</a></li>
 <li>uart1_receive_byte()&#160;:&#160;<a class="el" href="group__uart.html#ga5f66ea2c05ce23684284f338d9067179">uart.h</a></li>
 <li>uart1_send_byte()&#160;:&#160;<a class="el" href="group__uart.html#gaee0e2768c65fa6dfe5e87991f729c6d0">uart.h</a></li>
 </ul>

diff --git a/docs/html/globals_u.html b/docs/html/globals_u.html
@@ -74,6 +74,8 @@ $(function() {
 <h3><a id="index_u" name="index_u"></a>- u -</h3><ul>
 <li>uart1_init&#160;:&#160;<a class="el" href="group__uart.html#gaaf582a05f613b72c7255c5cd838879fd">uart.h</a></li>
 <li>uart1_mode0_init()&#160;:&#160;<a class="el" href="group__uart1__mode0.html#gaf5419d2ce198432d12affc50bb9f567c">uart1_mode0.h</a></li>
+<li>uart1_mode0_receive_byte()&#160;:&#160;<a class="el" href="group__uart1__mode0.html#ga90ab3ce7b678adb5a2d1e71c64f240f2">uart1_mode0.h</a></li>
+<li>uart1_mode0_send_byte()&#160;:&#160;<a class="el" href="group__uart1__mode0.html#ga337ab921b8215fd076d12728c7b0454b">uart1_mode0.h</a></li>
 <li>uart1_receive_byte()&#160;:&#160;<a class="el" href="group__uart.html#ga5f66ea2c05ce23684284f338d9067179">uart.h</a></li>
 <li>uart1_send_byte()&#160;:&#160;<a class="el" href="group__uart.html#gaee0e2768c65fa6dfe5e87991f729c6d0">uart.h</a></li>
 </ul>

diff --git a/include/uart1_mode0.h b/include/uart1_mode0.h
@@ -1,5 +1,10 @@
 #ifndef STC15_UART1MODE0H
 #define STC15_UART1MODE0H
+
+#include <stdint.h>
+
+#include <sys.h>
+
 /**
  * @file uart1_mode0.h
  * @defgroup uart1_mode0 UART1 Mode 0
@@ -27,6 +32,43 @@
  * @ingroup uart1_mode0
  */
 void uart1_mode0_init();
+///@}
+
+/** @name send and receive
+ *  UART1 send and receive byte functions
+ */
+///@{
+
+/**
+ * @brief Sends a single byte over UART1 in Mode 0.
+ * 
+ * Transmits the specified 8-bit data byte through UART1 configured in Mode 0.
+ * The function blocks until the byte is fully transmitted.
+ * 
+ * @param byte The 8-bit data value to be sent (0-255).
+ * 
+ * @note Requires UART1 to be previously initialized with uart_mode0_init().
+ * @note Uses polling (blocking) method for transmission.
+ * @note Assumes UART1 is configured with 8 data bits, no parity, 1 stop bit.
+ * 
+ * @ingroup uart1_mode0
+ */
+void uart1_mode0_send_byte(uint8_t byte);
+
+/**
+ * @brief Receives a single byte from UART1.
+ * 
+ * Waits until a byte is received via UART1 and stores it in the provided memory location.
+ * 
+ * @param[out] byte Pointer to a uint8_t where the received data will be stored.
+ * 
+ * @note This function blocks until a byte is received.
+ * @note Requires UART1 to be initialized with uart_mode0_init() prior to use.
+ * @note Assumes UART1 is configured with 8 data bits, no parity, 1 stop bit.
+ * 
+ * @ingroup uart1_mode0
+ */
+void uart1_mode0_receive_byte(uint8_t *byte);
 
 ///@}
 

diff --git a/src/uart1_mode0.c b/src/uart1_mode0.c
@@ -2,5 +2,24 @@
 
 void uart1_mode0_init()
 {
-    
+    // Configure UART1 in Mode 0
+    SCON = 0x50; // 8-bit data, no parity, 1 stop bit
+}
+
+
+void uart1_mode0_send_byte(uint8_t byte)
+{
+    if(TI==0)
+    {
+        SBUF = byte;
+    }
+}
+
+void uart1_mode0_receive_byte(uint8_t *byte)
+{
+    if(RI==1)
+    {
+        *byte = SBUF;
+        RI = 0;
+    }
 }
